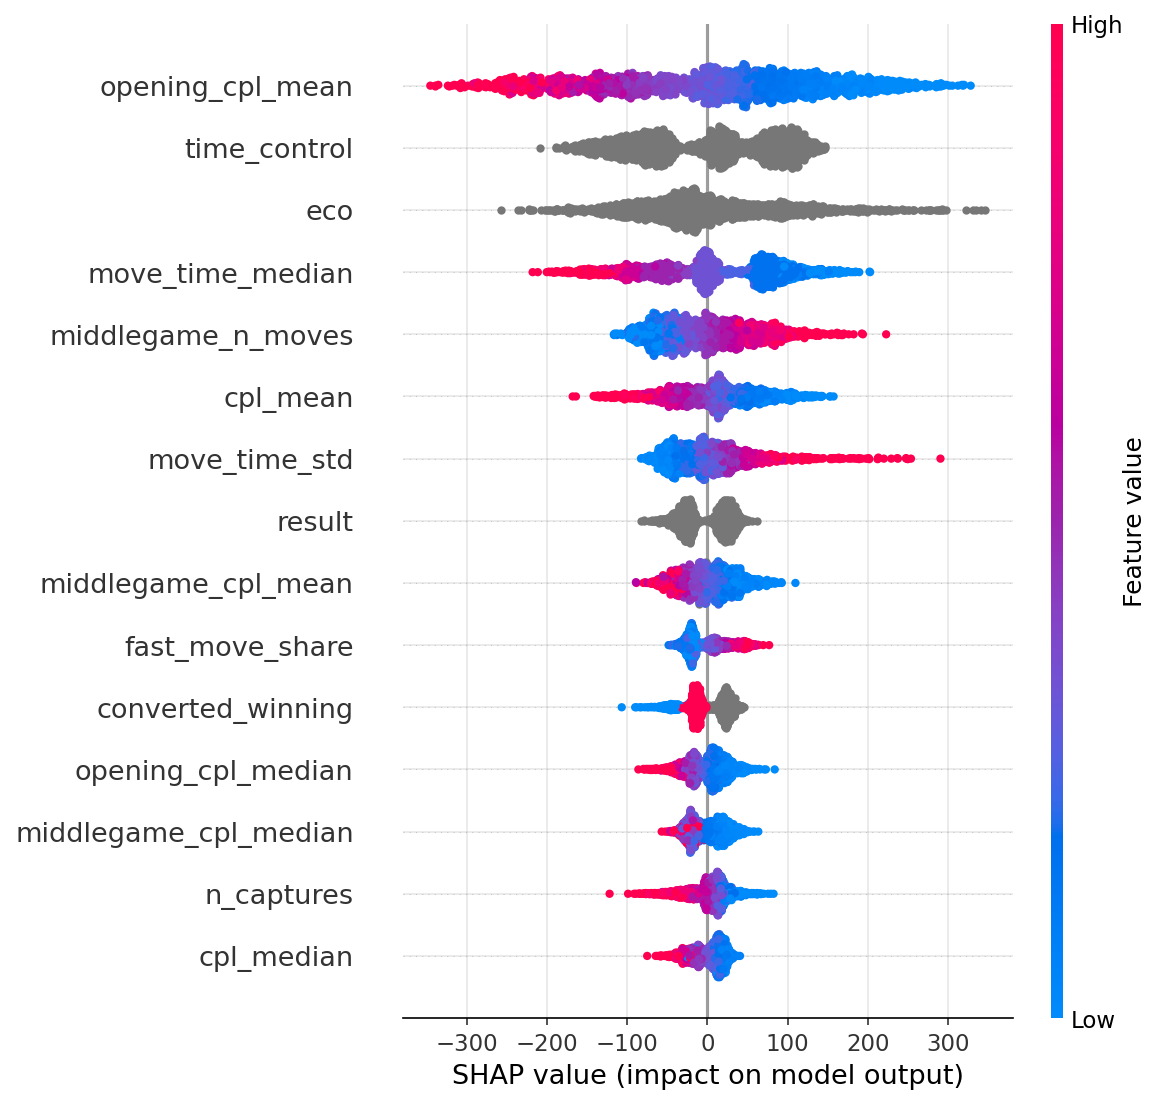
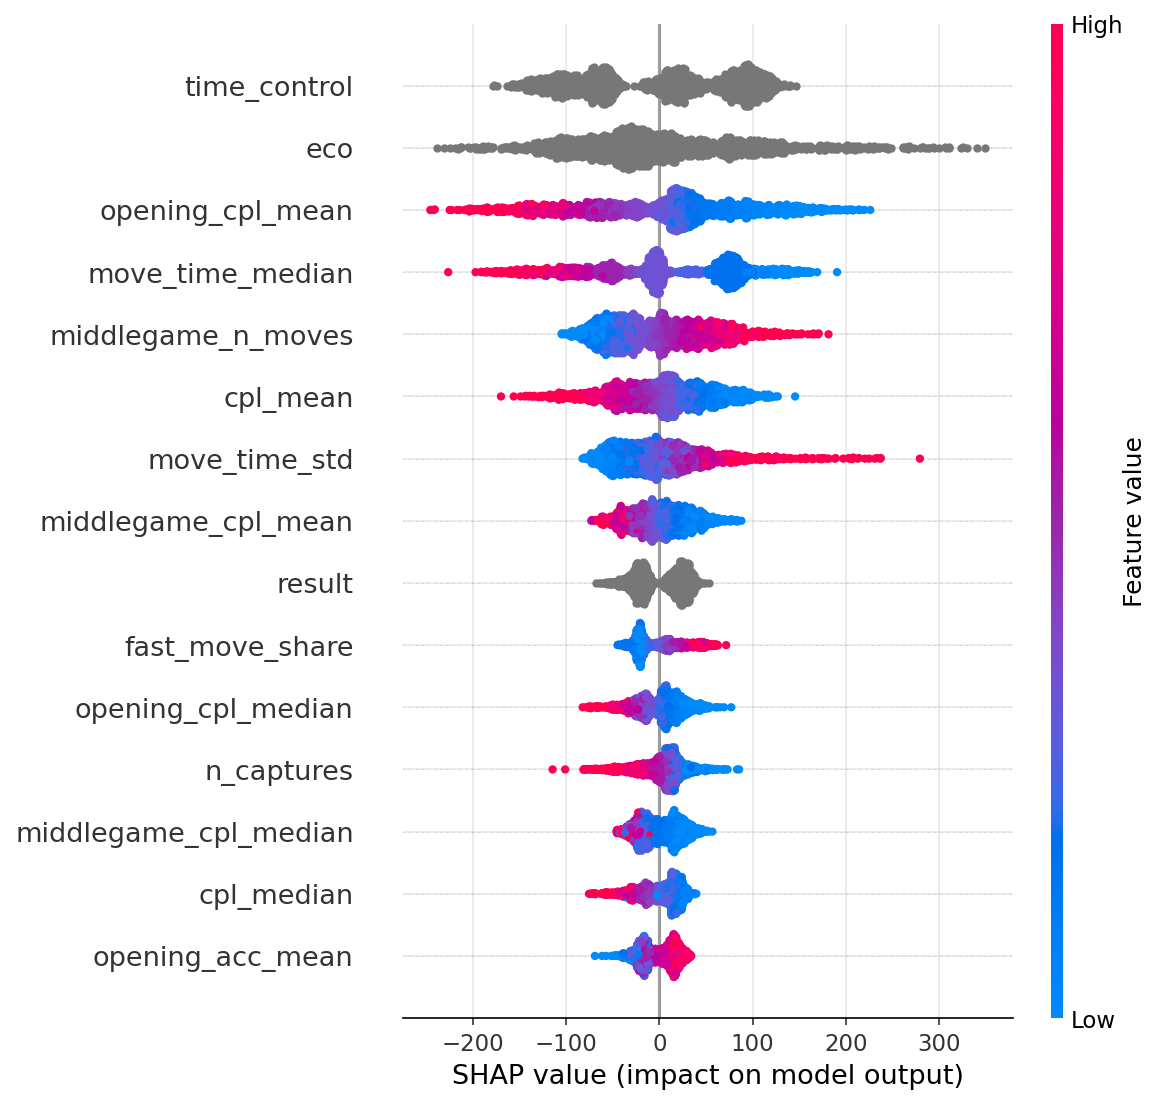
exp: final Optuna pass on full 77-feature model (300k)
2-hour tuned run on the full feature set (engine/clock/opening/style +
clock-scramble, 77 feats): 239.1 -> 237.2 MAE (RMSE 297.7), per-player
216.7 MAE, Mondrian CQR 89.8% @ 992 Elo width. Best of the tuned runs so
far (previous 69-feat tuned run: 237.4). Regenerates reports/figures/*.png
from the tuned model.

Claude-Session: https://claude.ai/code/session_01EgzYg5hwRnj5DU6X6JKehC

diff --git a/reports/results.md b/reports/results.md
@@ -132,3 +132,24 @@ n_train=329353, n_calib=59124, n_test=120513, n_features=77
 - band accuracy: 36.4% exact, 75.9% adjacent
 - aggregation MAE: K1=235, K2=209, K3=202, K5=200, K10=203, K20=217
 - ablation (MAE↑ when dropped): engine +33.6, clock +9.1, opening +8.2, style +7.9
+
+## 2026-07-07 00:11 — improved model (tuned)
+n_train=329353, n_calib=59124, n_test=120513, n_features=77
+
+| stage | MAE | RMSE |
+|---|---|---|
+| no-engine baseline | 293.4 | — |
+| + engine/clock | 239.1 | 300.1 |
+| + tuned | 237.2 | 297.7 |
+
+- best_params: `{'num_leaves': 178, 'learning_rate': 0.010507258889041039, 'feature_fraction': 0.5034331983772904, 'bagging_fraction': 0.8786594745277075, 'bagging_freq': 1, 'min_child_samples': 112, 'reg_lambda': 0.9635897279825012}`
+
+- median AE 200, R² 0.553, Spearman 0.731, within 100/200 Elo 26%/50%, bias -3.0
+- per-player (all games averaged): **216.7** MAE over 50357 players
+- 90% interval coverage: raw 87.0% -> CQR(plain) **89.7%** (width 929 -> 991 Elo; correction lo=31.1, hi=31.1)
+- Mondrian CQR: **89.8%** (width 992 Elo) — headline
+- coverage by band (headline=mondrian): 0-1200 77%, 1200-1400 96%, 1400-1600 98%, 1600-1800 98%, 1800-2000 95%, 2000-3000 81%
+- per-band coverage, plain/Mondrian: 0-1200 78%/77%, 1200-1400 95%/96%, 1400-1600 98%/98%, 1600-1800 98%/98%, 1800-2000 95%/95%, 2000-3000 80%/81%
+- band accuracy: 36.6% exact, 76.2% adjacent
+- aggregation MAE: K1=233, K2=208, K3=201, K5=198, K10=201, K20=216
+- ablation (MAE↑ when dropped): engine +33.6, clock +9.1, opening +8.2, style +7.9
